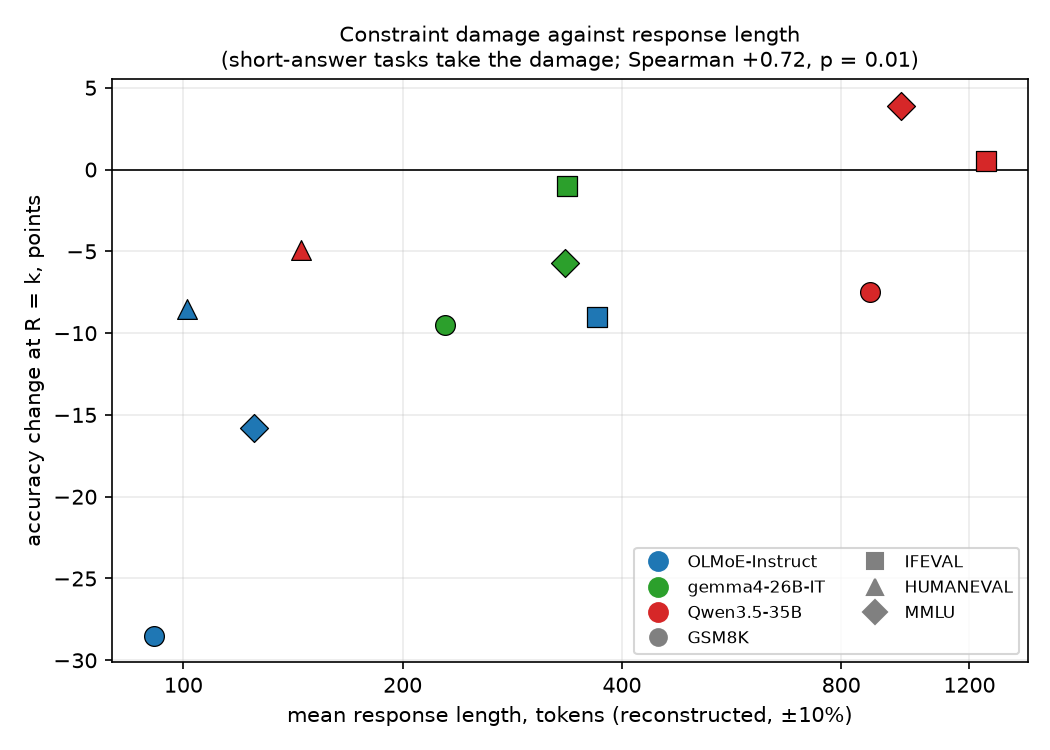
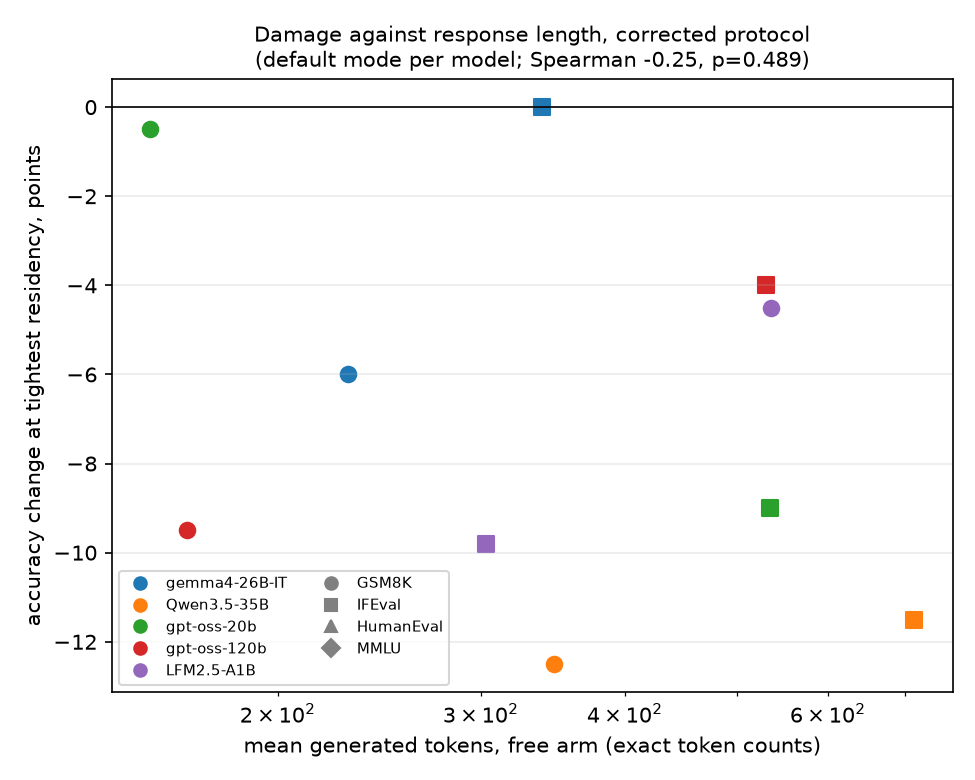
Docs: corrected-era instruct tables, thinking-ablation section, length-damage retraction; corrections entry 6 (protocol correction chain)

diff --git a/analysis/residency/length_damage.py b/analysis/residency/length_damage.py
@@ -1,58 +1,62 @@
 #!/usr/bin/env python3
-"""Response length against benchmark damage. Lengths are reconstructed as final logged
-vLLM output throughput x elapsed / items (estimate, ~10%); damages from the audited
-genbench CSVs. Finding: pooled Spearman +0.72 (p=0.01) with damage NEGATIVE, i.e.
-SHORT-response tasks take the damage; no evidence of error accumulation over length.
-Data table inline (log-derived lengths pinned at analysis time; logs are ephemeral)."""
-DATA = {  # (model, task): (mean_free_len_tokens, dmg_at_k, dmg_at_12p5)
- ("olmoe", "gsm8k"): (91, -28.5, None), ("olmoe", "humaneval"): (101, -8.5, None),
- ("olmoe", "mmlu"): (125, -15.8, None), ("olmoe", "ifeval"): (370, -9.0, None),
- ("gemma4", "gsm8k"): (229, -9.5, -1.0), ("gemma4", "mmlu"): (334, -5.7, -2.6),
- ("gemma4", "ifeval"): (336, -1.0, -2.5),
- ("qwen35", "humaneval"): (145, -4.9, -3.7), ("qwen35", "gsm8k"): (877, -7.5, -4.0),
- ("qwen35", "mmlu"): (965, 3.9, 2.2), ("qwen35", "ifeval"): (1264, 0.5, 0.5),
-}
-def figure():
-    import matplotlib
-    matplotlib.use("Agg")
-    import matplotlib.pyplot as plt
-    import os, sys
-    sys.path.insert(0, os.path.dirname(os.path.dirname(os.path.abspath(__file__))))
-    from paths import ABLATIONS
-    cols = {"olmoe": "tab:blue", "gemma4": "tab:green", "qwen35": "tab:red"}
-    names = {"olmoe": "OLMoE-Instruct", "gemma4": "gemma4-26B-IT", "qwen35": "Qwen3.5-35B"}
-    marks = {"gsm8k": "o", "ifeval": "s", "humaneval": "^", "mmlu": "D"}
-    fig, ax = plt.subplots(figsize=(7, 5))
-    for (model, task), v in DATA.items():
-        ax.scatter(v[0], v[1], s=90, color=cols[model], marker=marks[task],
-                   edgecolor="black", linewidth=0.6, zorder=5)
-    from matplotlib.lines import Line2D
-    handles = [Line2D([], [], color=c, marker="o", ls="", ms=9, label=names[m])
-               for m, c in cols.items()]
-    handles += [Line2D([], [], color="grey", marker=mk, ls="", ms=8, label=t.upper())
-                for t, mk in marks.items()]
-    ax.axhline(0, color="black", lw=0.8)
-    ax.set_xscale("log")
-    ax.set_xticks([100, 200, 400, 800, 1200])
-    ax.set_xticklabels(["100", "200", "400", "800", "1200"])
-    import matplotlib.ticker as mt
-    ax.xaxis.set_minor_formatter(mt.NullFormatter())
-    ax.xaxis.set_minor_locator(mt.NullLocator())
-    ax.set_xlabel("mean response length, tokens (reconstructed, ±10%)")
-    ax.set_ylabel("accuracy change at R = k, points")
-    ax.set_title("Constraint damage against response length\n"
-                 "(short-answer tasks take the damage; Spearman +0.72, p = 0.01)",
-                 fontsize=10)
-    ax.legend(handles=handles, fontsize=8, ncol=2)
-    ax.grid(alpha=0.25)
-    fig.tight_layout()
-    fig.savefig(os.path.join(ABLATIONS, "figures", "length_vs_damage.png"), dpi=150)
-    print("wrote length_vs_damage.png")
+"""Response length against residency damage, era-E4 protocol.
 
+Reads think_ablation_summary.csv (produced by think_analysis.py from corrected rows and
+token dumps): x = mean generated tokens on the FREE arm (exact, token-counted -- no
+throughput reconstruction), y = damage at the model's default mode and tightest arm.
+Writes figures/length_vs_damage.png and prints the pooled Spearman.
+"""
+import csv
+import os
+import sys
 
-if __name__ == "__main__":
-    from scipy.stats import spearmanr
-    pts = [(v[0], v[1]) for v in DATA.values()]
-    rho, p = spearmanr(*zip(*pts))
-    print(f"pooled spearman(length, damage@R=k) = {rho:+.2f} (n={len(pts)}, p={p:.3f})")
-    figure()
+import matplotlib
+matplotlib.use("Agg")
+import matplotlib.pyplot as plt
+from scipy.stats import spearmanr
+
+sys.path.insert(0, os.path.dirname(os.path.dirname(os.path.abspath(__file__))))
+from paths import ABLATIONS                                          # noqa: E402
+
+DEFAULT_MODE = {"gemma4-26B-IT": "off", "Qwen3.5-35B": "on", "gpt-oss-20b": "medium",
+                "gpt-oss-120b": "medium", "LFM2.5-A1B": "on"}
+TIGHT = {"gemma4-26B-IT": "R8", "Qwen3.5-35B": "R8", "gpt-oss-20b": "R4",
+         "gpt-oss-120b": "R4", "LFM2.5-A1B": "R4"}
+MARK = {"GSM8K": "o", "IFEval": "s", "HumanEval": "^", "MMLU": "D"}
+
+pts = []
+for r in csv.DictReader(l for l in open(f"{ABLATIONS}/think_ablation_summary.csv")
+                        if not l.startswith('"#')):
+    m = r["model"]
+    if r["mode"] != DEFAULT_MODE.get(m) or r["arm"] != TIGHT.get(m):
+        continue
+    if not r["gen_free"]:
+        continue
+    if m == "LFM2.5-A1B" and r["task"] == "MMLU":
+        continue                                    # extraction floor, censored
+    pts.append((m, r["task"], float(r["gen_free"]), float(r["damage"])))
+
+xs = [p[2] for p in pts]
+ys = [p[3] for p in pts]
+rho, p = spearmanr(xs, ys)
+print(f"Spearman(length, damage) = {rho:+.2f} (p = {p:.3f}, n = {len(pts)})")
+
+fig, ax = plt.subplots(figsize=(6.5, 5.2))
+cols = {m: c for m, c in zip(DEFAULT_MODE, plt.cm.tab10.colors)}
+for m, task, x, y in pts:
+    ax.scatter(x, y, color=cols[m], marker=MARK[task], s=55)
+handles = [plt.Line2D([], [], marker="o", ls="", color=cols[m], label=m)
+           for m in DEFAULT_MODE if any(p[0] == m for p in pts)]
+handles += [plt.Line2D([], [], marker=mk, ls="", color="grey", label=t)
+            for t, mk in MARK.items()]
+ax.set_xscale("log")
+ax.axhline(0, color="black", lw=0.8)
+ax.set_xlabel("mean generated tokens, free arm (exact token counts)")
+ax.set_ylabel("accuracy change at tightest residency, points")
+ax.set_title("Damage against response length, corrected protocol\n"
+             f"(default mode per model; Spearman {rho:+.2f}, p={p:.3f})", fontsize=10)
+ax.legend(handles=handles, fontsize=7, ncol=2)
+ax.grid(alpha=0.25)
+fig.tight_layout()
+fig.savefig(f"{ABLATIONS}/figures/length_vs_damage.png", dpi=150)
+print("wrote length_vs_damage.png")

diff --git a/analysis/residency/plot_instruct.py b/analysis/residency/plot_instruct.py
@@ -70,8 +70,11 @@ def bench():
         for r in csv.reader(open(f"{ABLATIONS}/{f}")):
             if len(r) > 8 and r[0] in NAMES and r[6] in want and r[8] != "10":
                 vals[(r[0], r[3], want[r[6]])] = float(r[7])
-            # gemma4's humaneval uses the channel-aware protocol rows
+            # channel-native humaneval variants are authoritative for think-in-text models
             if len(r) > 7 and r[0] == "gemma4_instruct" and r[5] == "humaneval_gemma_fixed":
+                vals[(r[0], r[3], "HumanEval")] = float(r[7])
+            if len(r) > 7 and r[0] in ("lfm25_instruct", "qwen35_instruct") \
+                    and r[5] == "humaneval_think":
                 vals[(r[0], r[3], "HumanEval")] = float(r[7])
     benches = ["GSM8K", "IFEval", "HumanEval", "MMLU"]
     models = list(NAMES)

diff --git a/docs/research/mechanism/01-findings.md b/docs/research/mechanism/01-findings.md
@@ -482,16 +482,19 @@ allocation against uniform at iso-memory, negative favours fitted (`perlayer_qwe
 | gemma4-26B, 30 | +0.054 | +0.002, flat profile, allocation loses |
 
 **Instruct checkpoints obey the same ordering, in generation.** Self-CE is each model's
-cross-entropy on its own greedy responses to 500 fixed prompts, prefill free, rule enforced on
-generated tokens (`instruct_selfce.csv`); benchmarks run the same protocol end to end
-(`instruct_genbench.csv`, `instruct_genbench_vllm.csv`; LFM's mmlu cell is an answer-extraction floor; gemma4's humaneval uses the channel-aware protocol — its template thinks in `<|channel>thought` spans that need a reasoning budget and final-block extraction, `humaneval_gemma.py`):
+cross-entropy on its own frozen responses to 500 fixed prompts, prefill free, rule enforced on
+generated tokens (`instruct_selfce.csv`). Benchmarks run the serving protocol end to end under
+each model's own card sampling recipe, thinking judged answer-only, budgets sized to the mode
+(protocol and superseded-era ledger: `results/ablations/PROTOCOL_ERAS.md`; free arms audited
+against published numbers: `results/ablations/parity_audit.md`; think-in-text models score
+channel-native HumanEval, `humaneval_think`/`humaneval_gemma.py`/`humaneval_gptoss.py`):
 
 | model, R = 12.5% of E | self-CE, free → R | gsm8k | ifeval | humaneval | mmlu |
 |---|---|---|---|---|---|
-| OLMoE-Instruct | 0.354 → 1.297 | 0.69 → 0.41 | 0.58 → 0.49 | 0.37 → 0.29 | 0.47 → 0.32 |
-| LFM2.5-A1B | 0.396 → 0.704 | 0.26 → 0.26 | 0.26 → 0.25 | 0.65 → 0.52 | at floor |
-| Qwen3.5-35B | 0.228 → 0.341 | 0.49 → 0.45 | 0.22 → 0.22 | 0.95 → 0.91 | 0.32 → 0.34 |
-| gemma4-26B-IT | 0.139 → 0.350 | 0.87 → 0.86 | 0.87 → 0.85 | 0.98 → 0.97 | 0.70 → 0.67 |
+| OLMoE-Instruct | 0.354 → 1.297 | 0.70 → 0.47 | 0.59 → 0.53 | 0.37 → 0.27 | 0.50 → 0.29 |
+| LFM2.5-A1B | 0.396 → 0.704 | 0.83 → 0.79 | 0.79 → 0.71 | 0.83 → 0.67 | at floor |
+| Qwen3.5-35B (thinking) | 0.228 → 0.341 | 0.83 → 0.81 | 0.80 → 0.80 | 0.96 → 0.88 | 0.79 → 0.83 |
+| gemma4-26B-IT | 0.139 → 0.350 | 0.86 → 0.85 | 0.86 → 0.88 | 0.99 → 0.97 | 0.68 → 0.72 |
 
 <img src="../../../results/ablations/figures/instruct_selfce_damage.png" alt="Self-CE damage against residency fraction, four instruct models" width="66%">
 
@@ -508,21 +511,52 @@ almost nowhere else; OLMoE and LFM pairs are one cell (k = 12.5%).*
   0.7035 against 0.7037, gemma4 0.3498 against 0.3498, qwen3.5 0.3362 against 0.3414
   (`instruct_selfce.csv`, cold rows). The rolling set re-converges
   within a few tokens, so the serving protocol needs no prefill-observation machinery for quality.
-- **Task damage is capability-weighted, not uniform.** The lexical-router model loses everywhere;
-  the robust models pay only on their strongest generative skills (LFM humaneval −0.13; gemma4
-  gsm8k −0.09 and humaneval −0.055 at R=k, both mostly recovered at 12.5%) or nowhere outside noise (Qwen3.5, whose R=k cells at 3% residency read
-  0.415/0.22/0.896/0.360).
-- **Damage lands on short-response tasks.** Spearman +0.72 (p = 0.01) between response length and
-  damage over eleven model-task cells: long generations self-correct, short answers die from single
-  routing mistakes. No error accumulation over decode length (`length_damage.py`).
+- **Task damage is capability-weighted, not uniform.** The lexical-router model loses everywhere
+  (OLMoE −22.5 gsm8k, −21.9 mmlu at R=k); the robust models pay mostly on code and math at tight
+  residency (LFM humaneval −15.9; qwen −14.6 humaneval, −12.5 gsm8k at R=k), largely recovered at
+  12.5% (qwen humaneval −7.3, gsm8k −1.5).
+- **Length does not protect: a correction.** On the corrected protocol with exact token counts,
+  the previously reported anti-correlation between response length and damage (+0.72) does not
+  replicate: Spearman −0.25 (p = 0.49, n = 10 default-mode cells). The original signal was an
+  artifact of budget-truncated short-answer cells and reconstructed lengths
+  (`length_damage.py`; superseded claim recorded in 02 §6).
 
-<img src="../../../results/ablations/figures/length_vs_damage.png" alt="Damage at R=k against mean response length" width="66%">
+<img src="../../../results/ablations/figures/length_vs_damage.png" alt="Damage at tightest residency against mean response length" width="66%">
 
-*Damage at R=k against mean response length, colour per model, shape per benchmark. The damaged
-cells are the short ones; lengths are throughput-reconstructed estimates, and model identity and
-length are partially confounded.*
+*Damage at the tightest arm against exact mean response length, colour per model, shape per
+benchmark. No significant relationship survives the protocol correction.*
+
+### Thinking and the constraint
+
+Every thinking-capable model ran both thinking modes (gemma toggled on, qwen toggled off,
+gpt-oss at effort low/medium/high; LFM has no toggle), same arms, items and recipes
+(`think_ablation_summary.csv`, `think_analysis.py`):
+
+<img src="../../../results/ablations/figures/think_damage.png" alt="Damage with and without thinking, per model" width="90%">
+
+<img src="../../../results/ablations/figures/think_length_shift.png" alt="Think length, free against constrained" width="60%">
+
+- **Thinking is a tightness-dependent lever, not blanket protection.** At R=k, thinking
+  amplifies damage on both paired models (qwen R8, on vs off: gsm8k −12.5 vs −9.0, humaneval
+  −14.6 vs −3.7, mmlu −7.9 vs −4.8; gemma mirrors it); at R=4k the on-mode damage collapses to
+  ≈0 and beats off-mode on mmlu (+3.1 vs +0.9). More effort erases 120b's mmlu damage even at
+  3% residency (medium −7.5 → high +1.3).
+- **The constraint lengthens thinking, scaled by tightness.** 19 of 28 cells lengthen; the
+  effect grows with tightness (qwen gsm8k ×1.18 at R=k vs ×0.99 at 4k; gemma ×1.13 vs ×1.04)
+  and with effort on 120b (×1.21–1.24 at high) — consistent with reduced per-token progress
+  under a stale resident set. gpt-oss-20b is the counterexample (×0.80–0.90).
+- **Two real mode costs survive every harness check**: gemma's forced-on thinking writes worse
+  code outright (humaneval free 0.99 → 0.84, untruncated, channel-stripped, complete
+  functions failing tests), and high effort trades instruction compliance for deliberation
+  (ifeval free: 20b 0.76 → 0.54, 120b 0.80 → 0.69 medium → high).
+- **At high effort the constraint can help**: 20b's R=k arm beats its free arm on all four
+  benchmarks (+8.5 gsm8k to +0.6 humaneval), and 120b's on gsm8k/mmlu — residency as an
+  overthinking regulariser; flagged as an open direction.
 
 **A pretrained instruct model adapts using its own responses and plain cross-entropy.**
+*(Era note: the adaptation trio below — base, adapted, control — was measured under the
+earlier greedy protocol; the three arms are internally paired and the comparison stands,
+but the levels are not comparable to the corrected tables above. See PROTOCOL_ERAS.md.)*
 gemma4-26B-IT: attention LoRA r32 + router and norm gains, 3.4M response tokens of its own
 vLLM-generated WildChat responses (training prompts disjoint from every evaluation set by
 construction), R=8 enforced on response tokens during training, one GPU-hour

diff --git a/docs/research/mechanism/02-corrections.md b/docs/research/mechanism/02-corrections.md
@@ -153,3 +153,33 @@ top-k softmax, Qwen, gemma4) are untouched, which is why sections 1 to 4 stand. 
 `results/archive/olmoe_wrong_renorm/`. The eval path now selects from the masked distribution and
 weights from the unmasked one, and `residency_unsloth.install` refuses `norm_topk_prob=False` models
 on the path that cannot do so.
+
+## 6. The instruct-eval protocol correction (2026-08-13)
+
+One user prior — thinking should not score worse than not thinking — pulled a chain of
+seven harness defects out of the instruct benchmark stack in a single day. Each produced
+plausible numbers with clean exit codes; none was model behaviour.
+
+| defect | symptom it faked | fix |
+|---|---|---|
+| greedy decoding on thinking models | repetition loops read as "degeneration" | card sampling recipes, seeded |
+| `humaneval_instruct`'s primed assistant fence | gpt-oss-120b "token salad" (0.12), qwen 0.16 | channel-native unprimed humaneval per family |
+| thinking text judged against task formats | gemma think-on IFEval 0.25; LFM IFEval 0.26 | answer-only scoring (lm_eval `think_end_token`) |
+| task-yaml budget caps (ifeval ships `max_gen_toks: 1280`) | universal thinking-model IFEval floors | CLI budgets override task yamls; thinking caps 4096 (ifeval 8192) |
+| task stop-strings firing inside think blocks ("Q:", "\ndef") | premature mid-thought endings | eos-only stops during generation, task stops post-strip |
+| incomplete sampling recipes (qwen `presence_penalty`, mode-specific temps; ancestral fallback on OLMoE) | qwen "rambling"; OLMoE 5–30 pts low | full card recipes; community-standard no-recipe fallback |
+| instrument circularity (post-filter dumps fed the truncation audits) | "zero cap-outs" verdicts on capped cells | raw pre-filter dumps keyed by doc; audits on raw text |
+
+**Withdrawn claim**: "damage lands on short-response tasks; long generations self-correct"
+(Spearman +0.72). On the corrected protocol with exact token counts it reads −0.25
+(p = 0.49) — the signal was truncation-depressed short-answer cells plus reconstructed
+lengths. The thinking ablation shows closer to the opposite at tight residency.
+
+**Unchanged**: every teacher-forced result (self-CE program, BPB laws, per-layer work),
+the gemma adaptation trio (internally paired, greedy era, marked in place), and all
+within-protocol conclusions of the corrected era.
+
+Ledger of which rows are authoritative: `results/ablations/PROTOCOL_ERAS.md`. Free-arm
+parity against published numbers: `results/ablations/parity_audit.md`. The drivers now
+fail fast (no per-task exception swallowing), verify staging against shard indexes, and
+log truncation ladders per cell.
